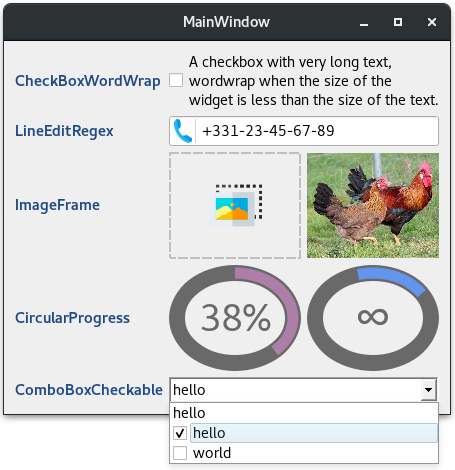
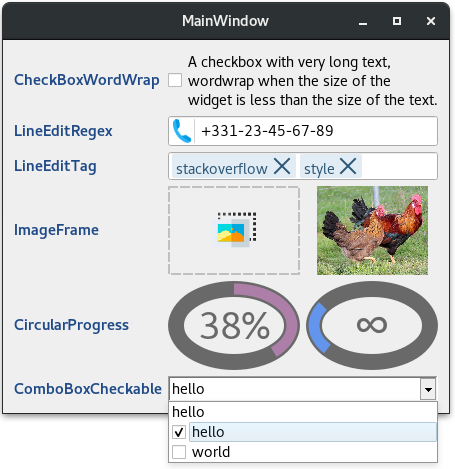
:sparkles: LineEditTag plugin

Changed region(s): [[0.0, 0.0, 1.0, 0.9851], [0.8923, 0.7164, 0.9538, 0.7761], [0.0, 0.0, 0.0308, 0.0299]]

diff --git a/plugins/LineEditTag/src/lineedittag.cpp b/plugins/LineEditTag/src/lineedittag.cpp
@@ -1,0 +1,160 @@
+#include "lineedittag.h"
+
+#include <QKeyEvent>
+#include <QPainter>
+#include <QDebug>
+
+LineEditTag::LineEditTag(QWidget *parent)
+    : QLineEdit (parent)
+{
+    setMinimumHeight(24);
+}
+
+LineEditTag::~LineEditTag()
+{
+
+}
+
+QStringList LineEditTag::getTags() const
+{
+    return tags;
+}
+
+QString LineEditTag::getTagsStr() const
+{
+    return tags.join(' ');
+}
+
+void LineEditTag::setTags(const QString& tags)
+{
+    if (!tags.isEmpty()){
+        this->tags = tags.split(' ');
+        clear();
+        update();
+    }
+}
+
+void LineEditTag::setTags(const QStringList& tags)
+{
+    if (!tags.isEmpty()){
+        this->tags = tags;
+        clear();
+        update();
+    }
+}
+
+void LineEditTag::addTag()
+{
+    if (!text().isEmpty()){
+        tags.append(text());
+        clear();
+        update();
+    }
+}
+
+void LineEditTag::leaveEvent(QEvent *evt)
+{
+    QLineEdit::leaveEvent(evt);
+    cursorPos = clickedPos = QPoint();
+}
+
+void LineEditTag::keyPressEvent(QKeyEvent *evt)
+{
+    if (evt->key() == Qt::Key_Return || evt->key() == Qt::Key_Enter || evt->key() == Qt::Key_Space){
+        evt->accept();
+        addTag();
+    } else {
+        QLineEdit::keyPressEvent(evt);
+    }
+}
+
+void LineEditTag::mousePressEvent(QMouseEvent *evt)
+{
+    clickedPos = evt->pos();
+    QLineEdit::mousePressEvent(evt);
+}
+
+void LineEditTag::mouseMoveEvent(QMouseEvent *evt)
+{
+    QLineEdit::mouseMoveEvent(evt);
+    cursorPos = evt->pos();
+}
+
+void LineEditTag::paintEvent(QPaintEvent *evt)
+{
+    QLineEdit::paintEvent(evt);
+
+    QPainter painter(this);
+    painter.setRenderHint(QPainter::Antialiasing);
+
+    QFontMetrics fm = fontMetrics();
+    QRectF r = rect();
+    double space = double(r.height()-fm.height())/2;
+    int padding = 4;
+    int cross_size = int(r.height()-space*2);
+    r.setX(padding);
+    r.setY(double(r.height()-fm.height())/4);
+    QPen pen = painter.pen();
+    QBrush brush = painter.brush();
+    // Stackoverflow tag like
+    QColor tag_bg(225, 236, 244);
+    QColor tag_txt(44, 87, 119);
+    int x_offset = padding;
+    int idx = 0;
+    for (const QString& tag : tags){
+        QRect tag_rect = fm.boundingRect(tag);
+        r.setWidth(tag_rect.width()+(padding*2)+(padding+cross_size));
+        r.setHeight(tag_rect.height()+space);
+        QRectF cross_rect = QRectF(r.x()+r.width()-cross_size-padding, space, cross_size, cross_size);
+        if (cross_rect.contains(clickedPos)){
+            clickedPos = QPoint();
+            tags.removeAt(idx);
+        } else {
+            QPainterPath tag_path;
+            tag_path.addRoundedRect(r, 2, 2);
+            // Draw tag background and text
+            painter.fillPath(tag_path, QBrush(tag_bg));
+            painter.setPen(tag_txt);
+            painter.drawText(QPointF(r.x()+padding, r.bottom()-space), tag);
+            // Draw the cross to remove tag
+            bool isHovered = r.contains(cursorPos);
+            if (isHovered){
+                // Manage the hovered
+                QPainterPath cross_path;
+                cross_path.addRoundedRect(cross_rect, 2, 2);
+                painter.fillPath(cross_path, QBrush(tag_txt));
+                // Manage the remove tag mouse cursor
+                if (cross_rect.contains(cursorPos)){
+                    setCursor(Qt::PointingHandCursor);
+                } else {
+                    setCursor(Qt::ArrowCursor);
+                }
+            }
+            pen.setWidth(2);
+            pen.setColor( (isHovered ? tag_bg : tag_txt) );
+            painter.setPen(pen);
+            QPointF topL = cross_rect.topLeft(), topR = cross_rect.topRight(), botL = cross_rect.bottomLeft(), botR = cross_rect.bottomRight();
+            topL.setX(topL.x()+3);
+            topL.setY(topL.y()+3);
+            topR.setX(topR.x()-3);
+            topR.setY(topR.y()+3);
+            botL.setX(botL.x()+3);
+            botL.setY(botL.y()-3);
+            botR.setX(botR.x()-3);
+            botR.setY(botR.y()-3);
+            painter.drawLine(topL, botR);
+            painter.drawLine(topR, botL);
+
+            x_offset += r.width()+(padding);
+            r.setX(x_offset);
+            idx++;
+        }
+    }
+    if (textMargins().left() != (x_offset)){
+        if (tags.isEmpty()){
+            setTextMargins(0, 0, 0, 0);
+        } else {
+            setTextMargins(x_offset-padding, 0, 0, 0);
+        }
+    }
+}

diff --git a/plugins/LineEditTag/src/lineedittagplugin.cpp b/plugins/LineEditTag/src/lineedittagplugin.cpp
@@ -1,0 +1,73 @@
+#include "lineedittag.h"
+#include "lineedittagplugin.h"
+
+#include <QtPlugin>
+
+LineEditTagPlugin::LineEditTagPlugin(QObject *parent)
+    : QObject(parent)
+{
+    m_initialized = false;
+}
+
+void LineEditTagPlugin::initialize(QDesignerFormEditorInterface * /* core */)
+{
+    if (m_initialized)
+        return;
+
+    // Add extension registrations, etc. here
+
+    m_initialized = true;
+}
+
+bool LineEditTagPlugin::isInitialized() const
+{
+    return m_initialized;
+}
+
+QWidget *LineEditTagPlugin::createWidget(QWidget *parent)
+{
+    return new LineEditTag(parent);
+}
+
+QString LineEditTagPlugin::name() const
+{
+    return QLatin1String("LineEditTag");
+}
+
+QString LineEditTagPlugin::group() const
+{
+    return QLatin1String("My Custom Plugins");
+}
+
+QIcon LineEditTagPlugin::icon() const
+{
+    return QIcon(QLatin1String("://icons/tag.png"));
+}
+
+QString LineEditTagPlugin::toolTip() const
+{
+    return QLatin1String("Line edit with tags");
+}
+
+QString LineEditTagPlugin::whatsThis() const
+{
+    return QLatin1String("Line edit with tags like the Stackoverflow tag system.");
+}
+
+bool LineEditTagPlugin::isContainer() const
+{
+    return false;
+}
+
+QString LineEditTagPlugin::domXml() const
+{
+    return QLatin1String("<widget class=\"LineEditTag\" name=\"lineEditTag\">\n</widget>\n");
+}
+
+QString LineEditTagPlugin::includeFile() const
+{
+    return QLatin1String("lineedittag.h");
+}
+#if QT_VERSION < 0x050000
+Q_EXPORT_PLUGIN2(LineEditTagPlugin, LineEditTagPlugin)
+#endif // QT_VERSION < 0x050000

diff --git a/plugins/LineEditTag/src/lineedittagplugin.h b/plugins/LineEditTag/src/lineedittagplugin.h
@@ -1,0 +1,37 @@
+#ifndef LINEEDITTAGPLUGIN_H
+#define LINEEDITTAGPLUGIN_H
+
+#include <QDesignerCustomWidgetInterface>
+
+/**
+ * @brief The LineEditTagPlugin class
+ * http://doc.qt.io/archives/qt-4.8/designer-creating-custom-widgets.html
+ */
+class LineEditTagPlugin : public QObject, public QDesignerCustomWidgetInterface
+{
+    Q_OBJECT
+    Q_INTERFACES(QDesignerCustomWidgetInterface)
+#if QT_VERSION >= 0x050000
+    Q_PLUGIN_METADATA(IID "org.qt-project.Qt.QDesignerCustomWidgetInterface")
+#endif // QT_VERSION >= 0x050000
+
+public:
+    LineEditTagPlugin(QObject *parent = Q_NULLPTR);
+
+    bool isContainer() const;
+    bool isInitialized() const;
+    QIcon icon() const;
+    QString domXml() const;
+    QString group() const;
+    QString includeFile() const;
+    QString name() const;
+    QString toolTip() const;
+    QString whatsThis() const;
+    QWidget *createWidget(QWidget *parent);
+    void initialize(QDesignerFormEditorInterface *core);
+
+private:
+    bool m_initialized;
+};
+
+#endif // LINEEDITTAGPLUGIN_H

diff --git a/plugins/LineEditTag/src/lineedittag.h b/plugins/LineEditTag/src/lineedittag.h
@@ -1,0 +1,40 @@
+#ifndef LINEEDITTAG_H
+#define LINEEDITTAG_H
+
+#include <QLineEdit>
+
+/**
+ * @author thibdev
+ * @brief The LineEditTag class
+ */
+class LineEditTag : public QLineEdit
+{
+    Q_OBJECT
+
+    Q_PROPERTY(QString tags READ getTagsStr WRITE setTags);
+
+public:
+    explicit LineEditTag(QWidget *parent = nullptr);
+    ~LineEditTag() override;
+    QStringList getTags() const;
+    QString getTagsStr() const;
+    void setTags(const QString& tags);
+    void setTags(const QStringList& tags);
+
+private slots:
+    void addTag();
+
+protected:
+    void leaveEvent(QEvent *evt) override;
+    void keyPressEvent(QKeyEvent *evt) override;
+    void mousePressEvent(QMouseEvent *evt) override;
+    void mouseMoveEvent(QMouseEvent *evt) override;
+    void paintEvent(QPaintEvent *evt) override;
+
+private:
+    QStringList tags;
+    QPoint cursorPos, clickedPos;
+
+};
+
+#endif // LINEEDITTAG_H

diff --git a/README.md b/README.md
@@ -14,6 +14,7 @@ A set of custom widgets to use directly in QtDesigner.
 
 * [CheckBoxWordWrap](./plugins/CheckBoxWordWrap)
 * [LineEditRegex](./plugins/LineEditRegex)
+* [LineEditTag](./plugins/LineEditTag)
 * [ImageFrame](./plugins/ImageFrame)
 * [CircularProgress](./plugins/CircularProgress)
 * [ComboBoxCheckable](./plugins/ComboBoxCheckable)
@@ -49,6 +50,6 @@ If the plugins are correctly installed, they appear in menu `Tools/Form Editor/A
 
 ## Plugins icons
 
-CheckBoxWordWrap and ImageFrame, ComboBoxCheckable icon made by [Freepik](https://www.freepik.com/) from [Flaticon](www.flaticon.com)  
+CheckBoxWordWrap, ImageFrame, ComboBoxCheckable and LineEditTag icon made by [Freepik](https://www.freepik.com/) from [Flaticon](www.flaticon.com)  
 LineEditRegex icon made by [Alfredo creates](https://www.alfredocreates.com/) from [Flaticon](www.flaticon.com)  
 CircularProgress icon made by [Smashicons](https://smashicons.com/) from [Flaticon](www.flaticon.com)

diff --git a/plugins/LineEditTag/README.md b/plugins/LineEditTag/README.md
@@ -1,0 +1,9 @@
+# LineEditRegex
+
+## Properties
+
+|Property|Type|
+|-|-|
+|tags|[QString](http://doc.qt.io/qt-5/qstring.html)|
+
+![plugins render](../../screenshots/lineedittag_properties.png)
